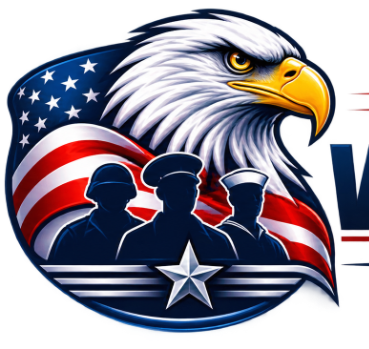
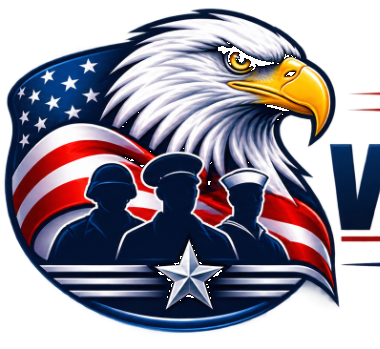
Fix hero wordmark with solid white VETERANS text and clear the homecoming photo.

diff --git a/src/app/page.tsx b/src/app/page.tsx
@@ -5,6 +5,7 @@ import { FacesHelped } from "@/components/FacesHelped";
 import { FamilyStrip } from "@/components/FamilyStrip";
 import { FastDonate } from "@/components/FastDonate";
 import { HelpGrid } from "@/components/HelpGrid";
+import { HeroBrand } from "@/components/HeroBrand";
 import { SponsorFamilies } from "@/components/SponsorFamilies";
 import { StatCounters } from "@/components/StatCounters";
 import { StoryCard } from "@/components/StoryCard";
@@ -57,21 +58,21 @@ export default async function HomePage() {
           alt={images.hero.alt}
           fill
           priority
-          className="reveal-scale object-cover object-[68%_30%] opacity-80 md:object-[78%_28%]"
+          className="reveal-scale object-cover object-[70%_25%] md:object-[82%_22%]"
           sizes="100vw"
         />
-        {/* Soft flag atmosphere on the left (matches example layout) */}
         <div
-          className="pointer-events-none absolute inset-y-0 left-0 w-[55%] opacity-35 mix-blend-soft-light"
+          className="pointer-events-none absolute inset-y-0 left-0 w-[50%] opacity-40"
           style={{
             backgroundImage: "url(/images/flag-soft.jpg)",
             backgroundSize: "cover",
             backgroundPosition: "left center",
+            maskImage: "linear-gradient(to right, black 40%, transparent 100%)",
+            WebkitMaskImage: "linear-gradient(to right, black 40%, transparent 100%)",
           }}
         />
-        <div className="absolute inset-0 bg-[radial-gradient(ellipse_at_15%_40%,rgba(0,70,180,0.5),transparent_55%)]" />
-        <div className="absolute inset-0 bg-gradient-to-r from-black via-ink/88 to-transparent md:via-ink/70" />
-        <div className="absolute inset-0 bg-gradient-to-t from-ink via-transparent to-black/45" />
+        <div className="absolute inset-0 bg-gradient-to-r from-black via-black/80 to-transparent md:via-black/55 md:to-black/10" />
+        <div className="absolute inset-0 bg-gradient-to-t from-ink via-transparent to-black/35" />
 
         <div className="relative z-[2] mx-auto flex min-h-[94vh] max-w-7xl flex-col justify-end px-6 pb-12 pt-28 md:px-12 md:pb-16 lg:justify-center lg:pb-20">
           <div className="reveal max-w-2xl">
@@ -84,15 +85,7 @@ export default async function HomePage() {
               </span>
             </div>
 
-            <Image
-              src={images.brandBannerHero.src}
-              alt={images.brandBannerHero.alt}
-              width={920}
-              height={314}
-              priority
-              className="mt-5 h-auto w-full max-w-[40rem] object-contain"
-            />
-            <h1 className="sr-only">{settings.siteName}</h1>
+            <HeroBrand siteName={settings.siteName} />
 
             <p className="mt-5 max-w-lg font-display text-xl italic leading-snug text-bone md:text-2xl">
               When the system fails a service member, a family{" "}

diff --git a/src/components/HeroBrand.tsx b/src/components/HeroBrand.tsx
@@ -1,0 +1,35 @@
+import Image from "next/image";
+
+/** Hero lockup: crest art + guaranteed solid-white wordmark (no 50/50 V). */
+export function HeroBrand({ siteName }: { siteName: string }) {
+  return (
+    <div className="mt-5 flex max-w-[40rem] items-center gap-3 sm:gap-4">
+      <Image
+        src="/images/brand-crest.png"
+        alt=""
+        width={220}
+        height={200}
+        priority
+        className="h-24 w-auto shrink-0 object-contain sm:h-28 md:h-32"
+      />
+      <div className="min-w-0 flex-1">
+        <p className="flex items-center gap-2 font-condensed text-2xl font-bold italic tracking-[0.08em] text-flag-red sm:text-3xl md:text-4xl">
+          <span className="h-px flex-1 bg-flag-red/80" aria-hidden />
+          STOP
+          <span className="h-px flex-1 bg-flag-red/80" aria-hidden />
+        </p>
+        <p className="font-condensed text-[1.65rem] font-bold leading-none tracking-wide text-white sm:text-4xl md:text-[2.75rem]">
+          VETERANS ABUSE
+        </p>
+        <div className="mt-2 h-px w-full bg-flag-red" aria-hidden />
+        <p className="mt-2 flex items-center gap-2 font-condensed text-[0.65rem] font-semibold tracking-[0.22em] text-white uppercase sm:text-xs">
+          <span className="h-px flex-1 bg-white/50" aria-hidden />
+          Honour <span className="text-flag-red">★</span> Support{" "}
+          <span className="text-flag-red">★</span> Protect
+          <span className="h-px flex-1 bg-white/50" aria-hidden />
+        </p>
+        <h1 className="sr-only">{siteName}</h1>
+      </div>
+    </div>
+  );
+}
